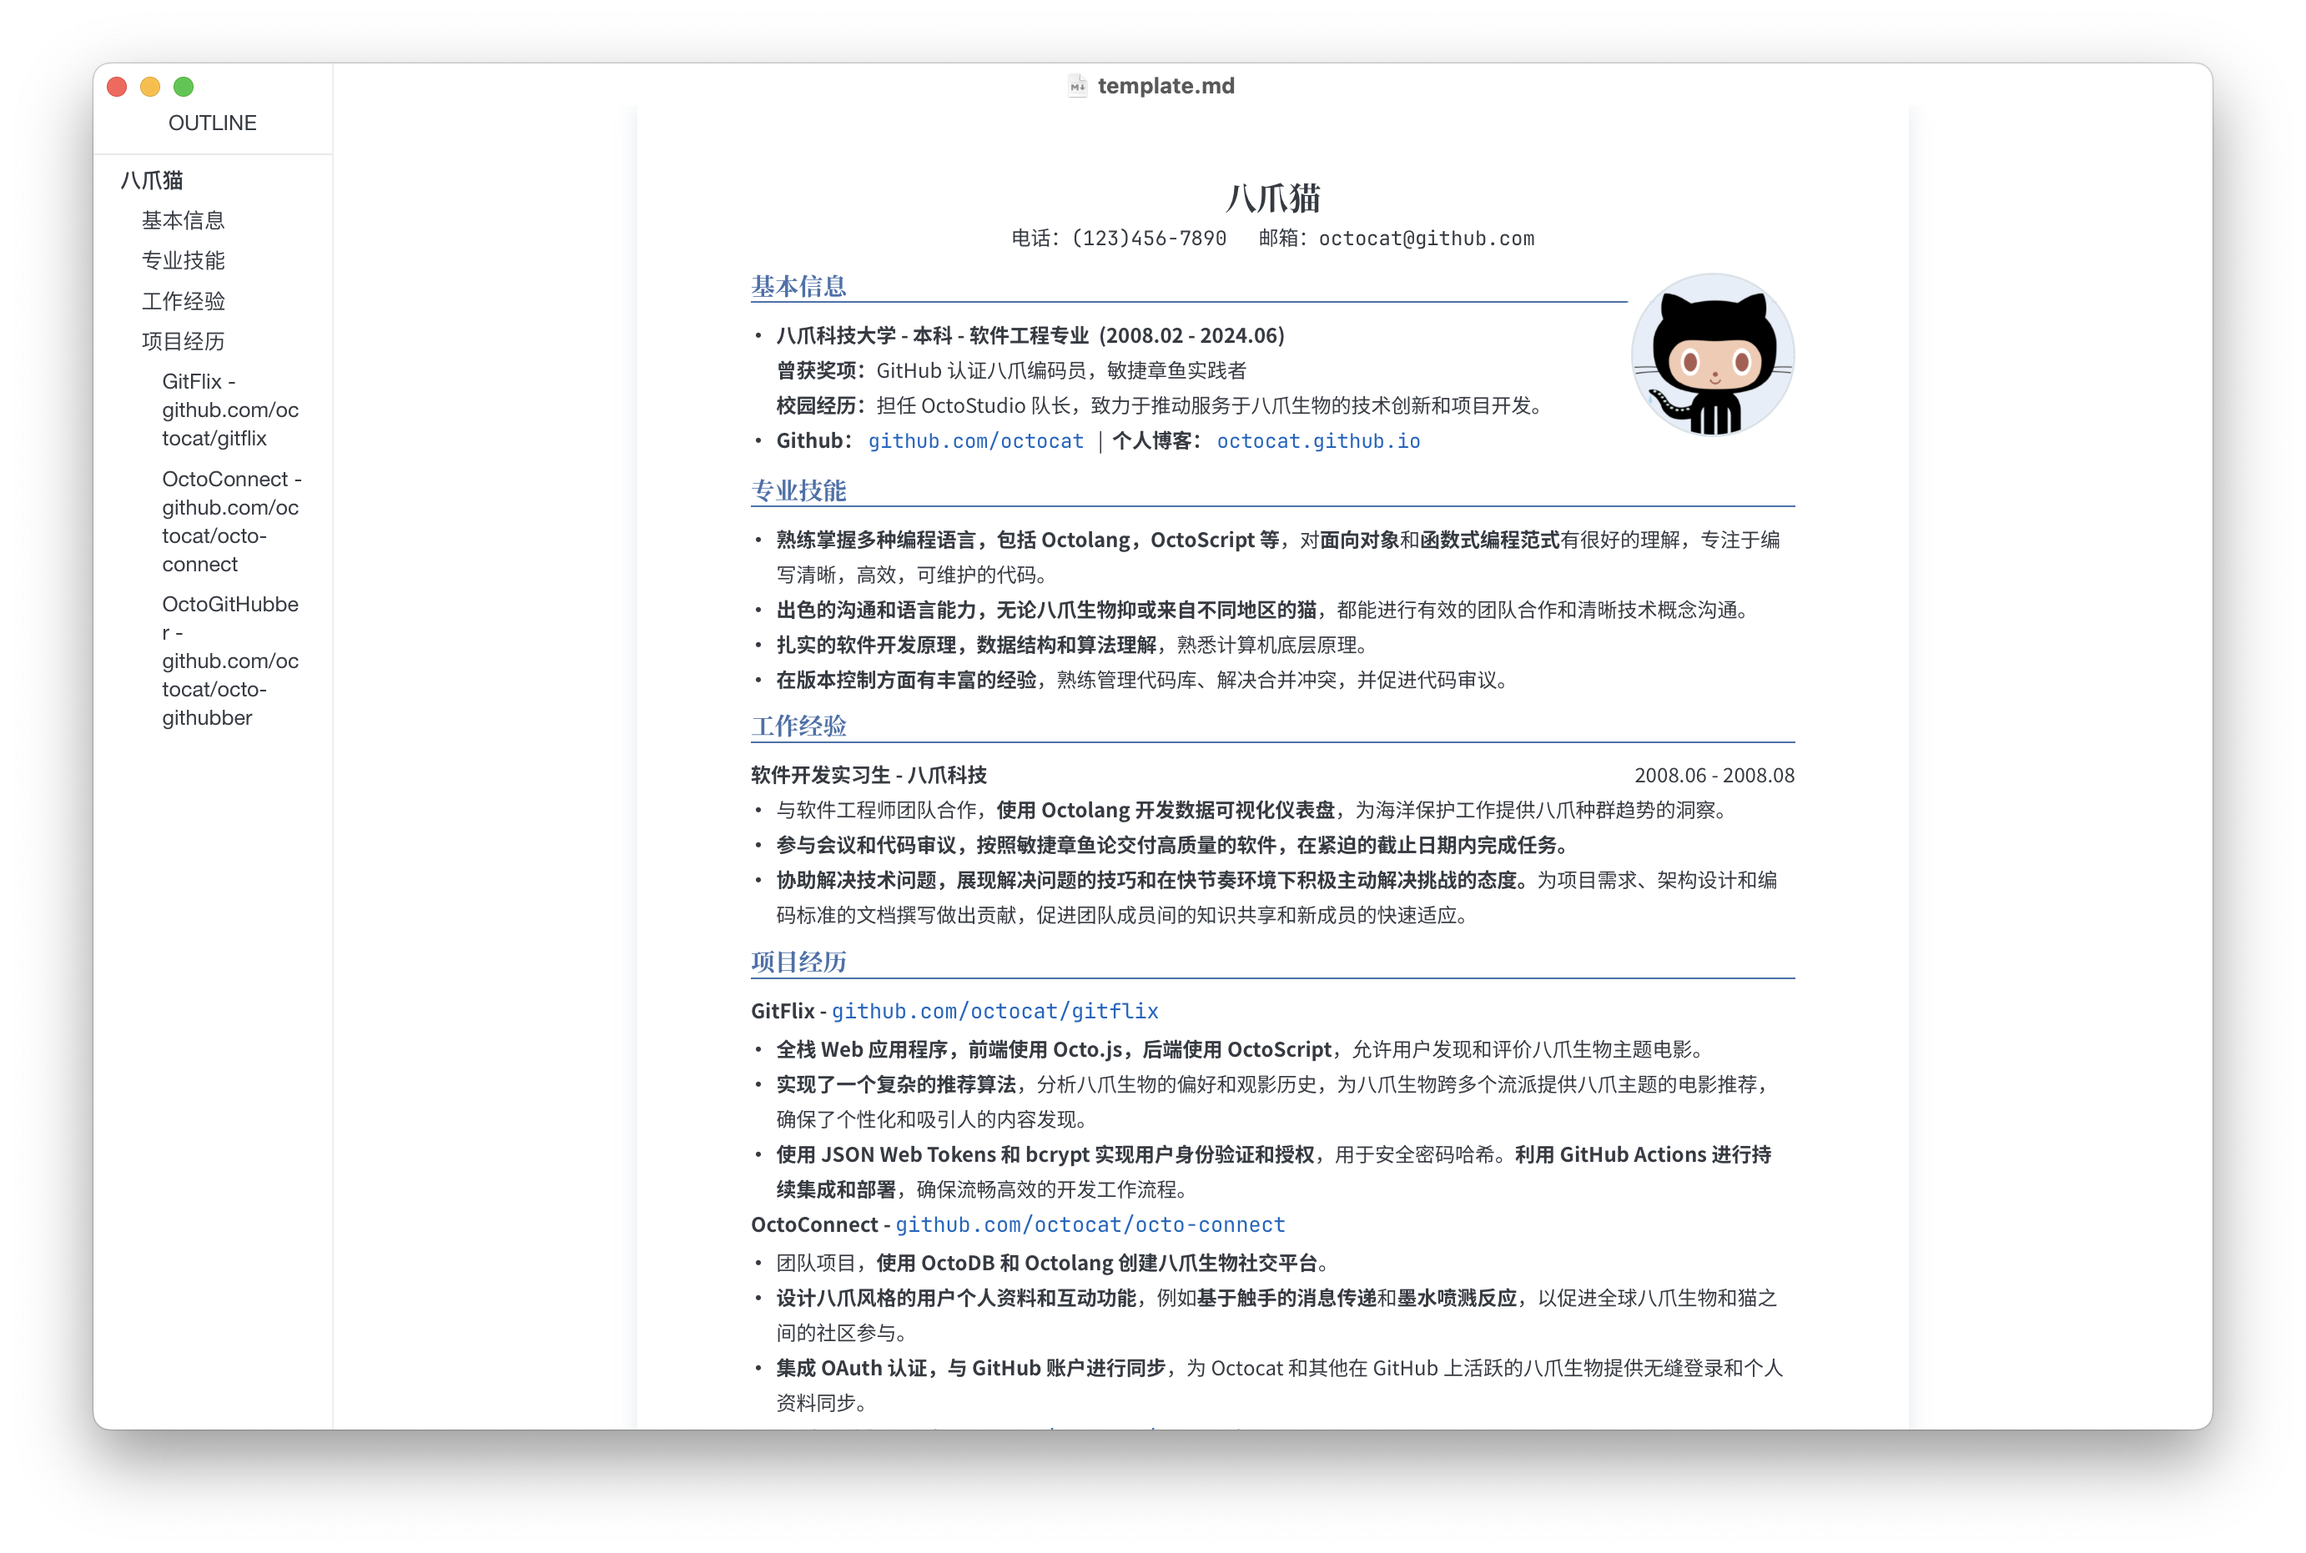
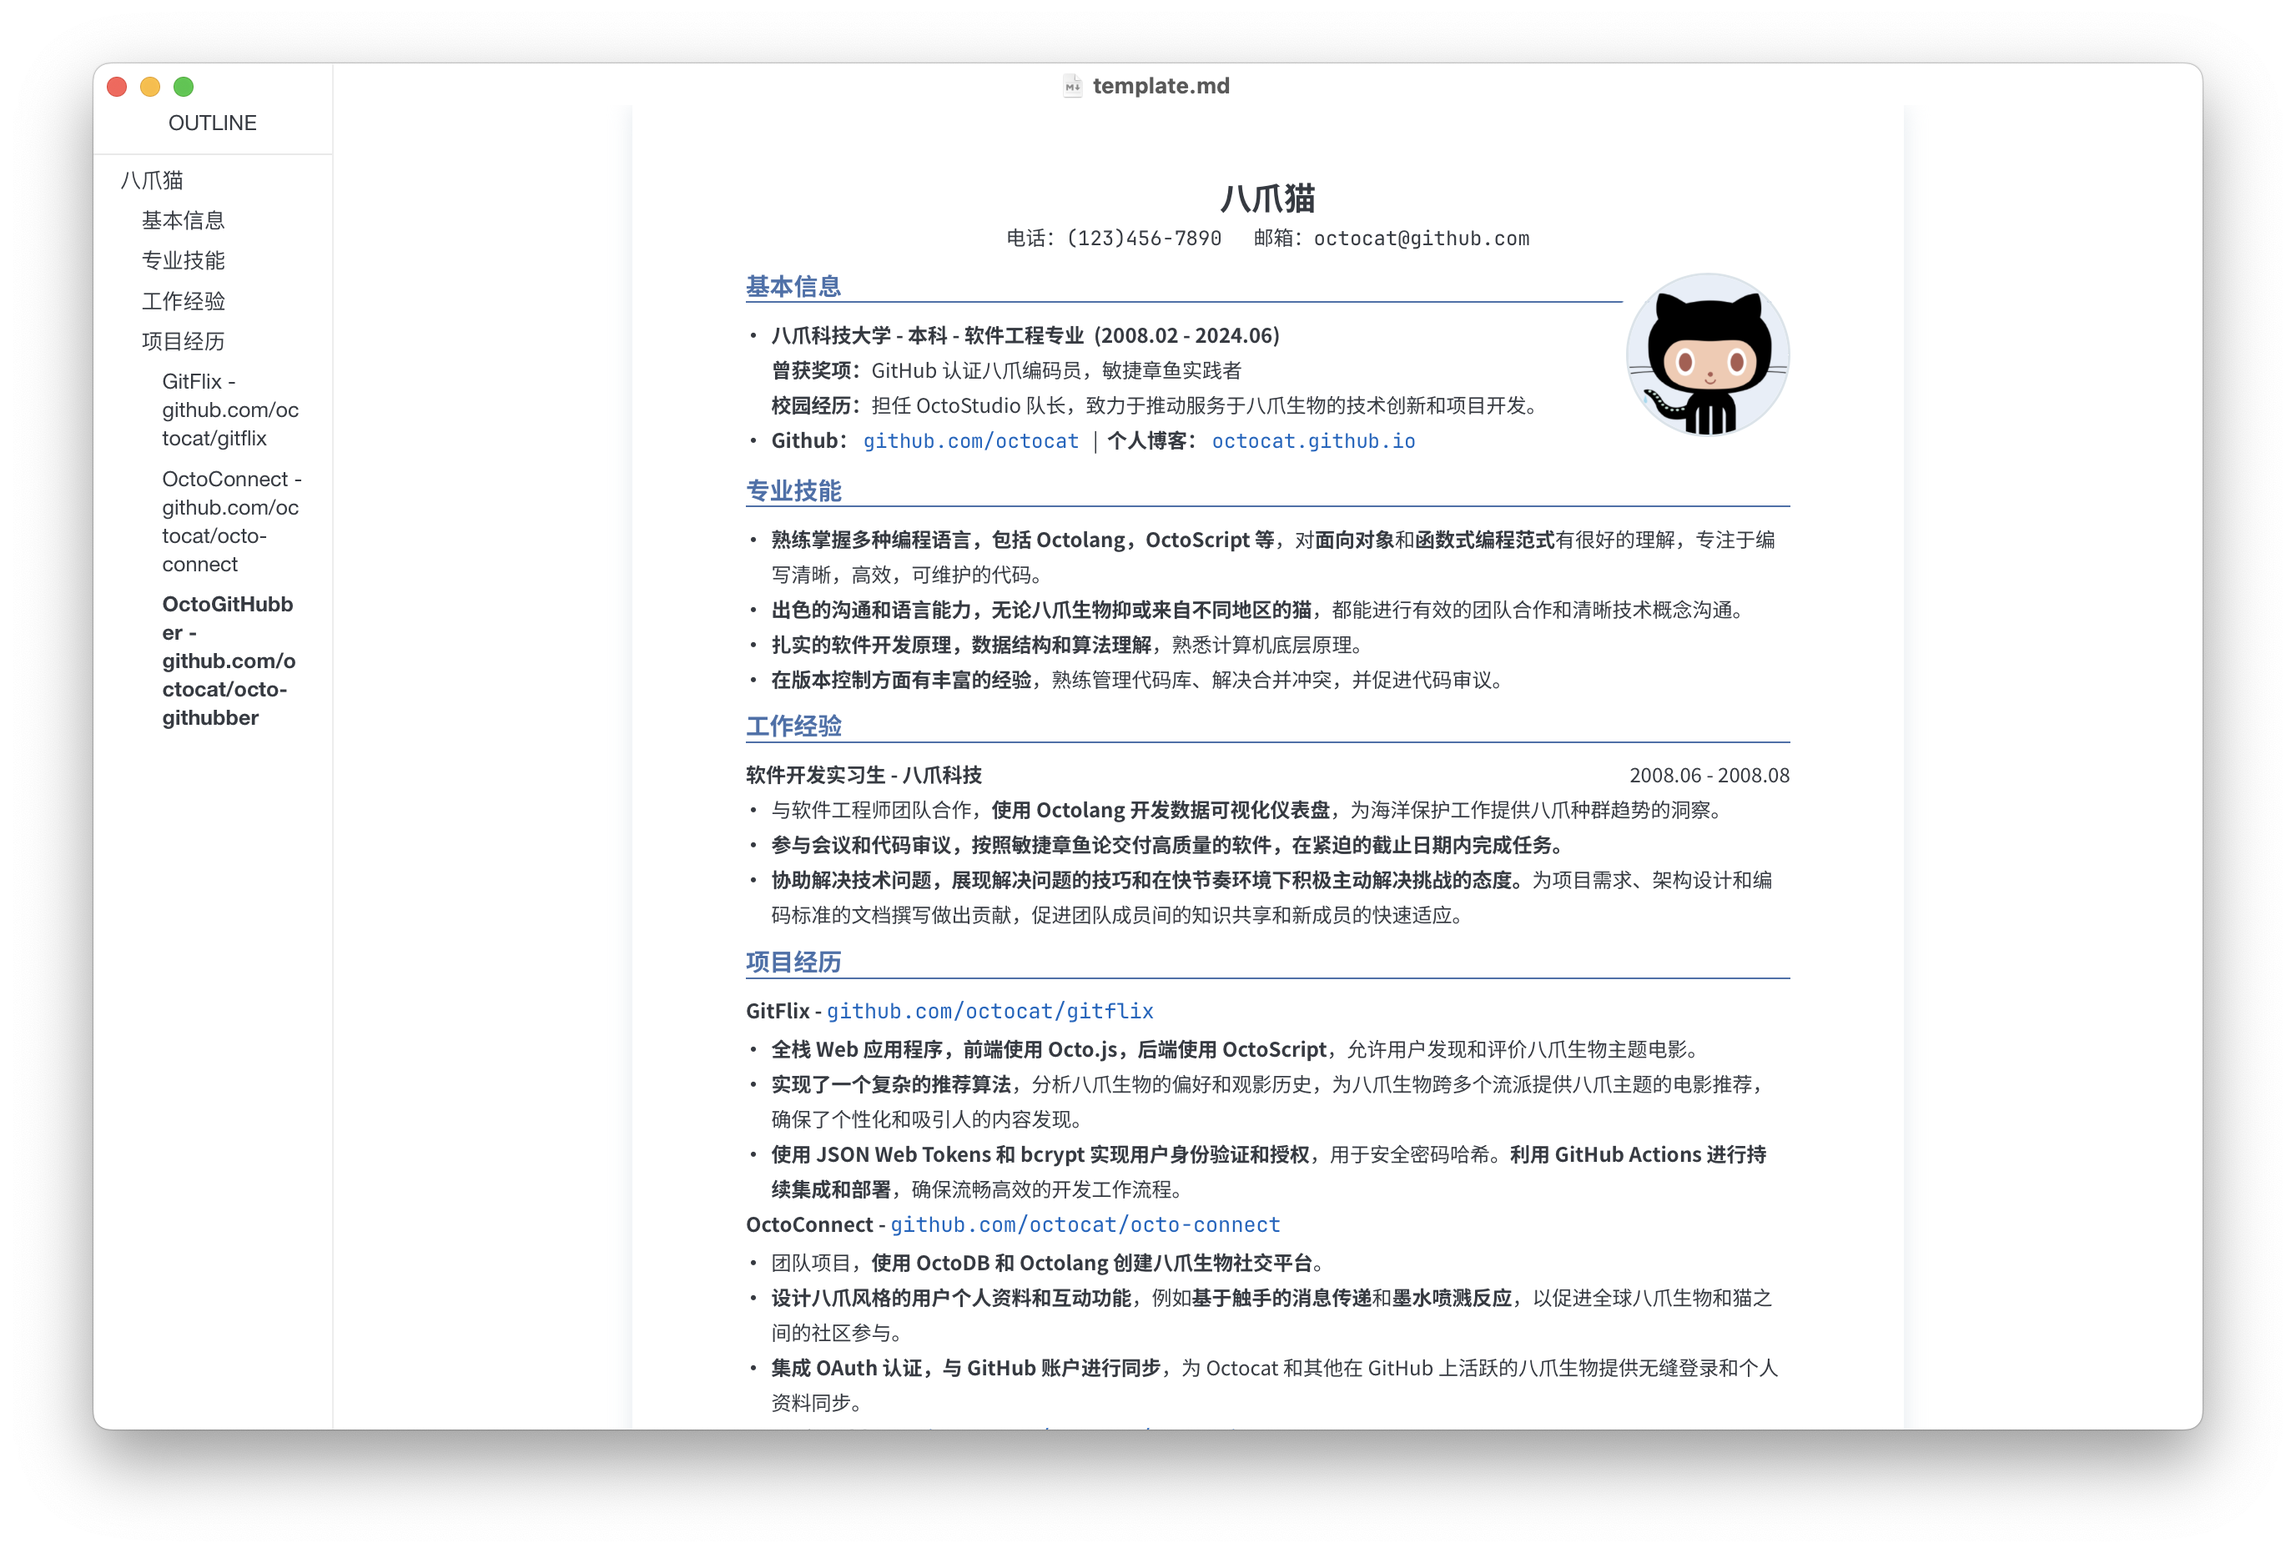
feat: unify ordered list style

diff --git a/lapis-resume.css b/lapis-resume.css
@@ -134,20 +134,37 @@
 
 #write ul {
     list-style-type: '\2022';
+    padding-inline-start: 3mm;
+    padding-inline-end: 1mm;
+}
+
+#write ol {
+    padding-inline-start: 5mm;
+    padding-inline-end: 1mm;
+}
+
+#write ol li {
+    padding-left: 0;
+}
+
+#write ol,
+#write ul {
     margin-block-start: 0;
     margin-block-end: 0;
     margin-inline-start: 0;
     margin-inline-end: 0;
-    padding-inline-start: 3mm;
-    padding-inline-end: 1mm;
 }
 
 #write li {
     padding-left: 1.5mm;
 }
 
-::marker {
+ul ::marker {
     font-weight: bolder;
+}
+
+ol ::marker {
+    font-weight: normal;
 }
 
 /* Avatar */

diff --git a/README.md b/README.md
@@ -9,8 +9,6 @@
 
 ![Screenshot](.assets/screenshot.png)
 
-![Preview](.assets/preview.png)
-
 <div align="center"><a href=".assets/preview.pdf">PDF 样例</a></div>
 
 - 易于编辑，无需额外排版，所见即所得
